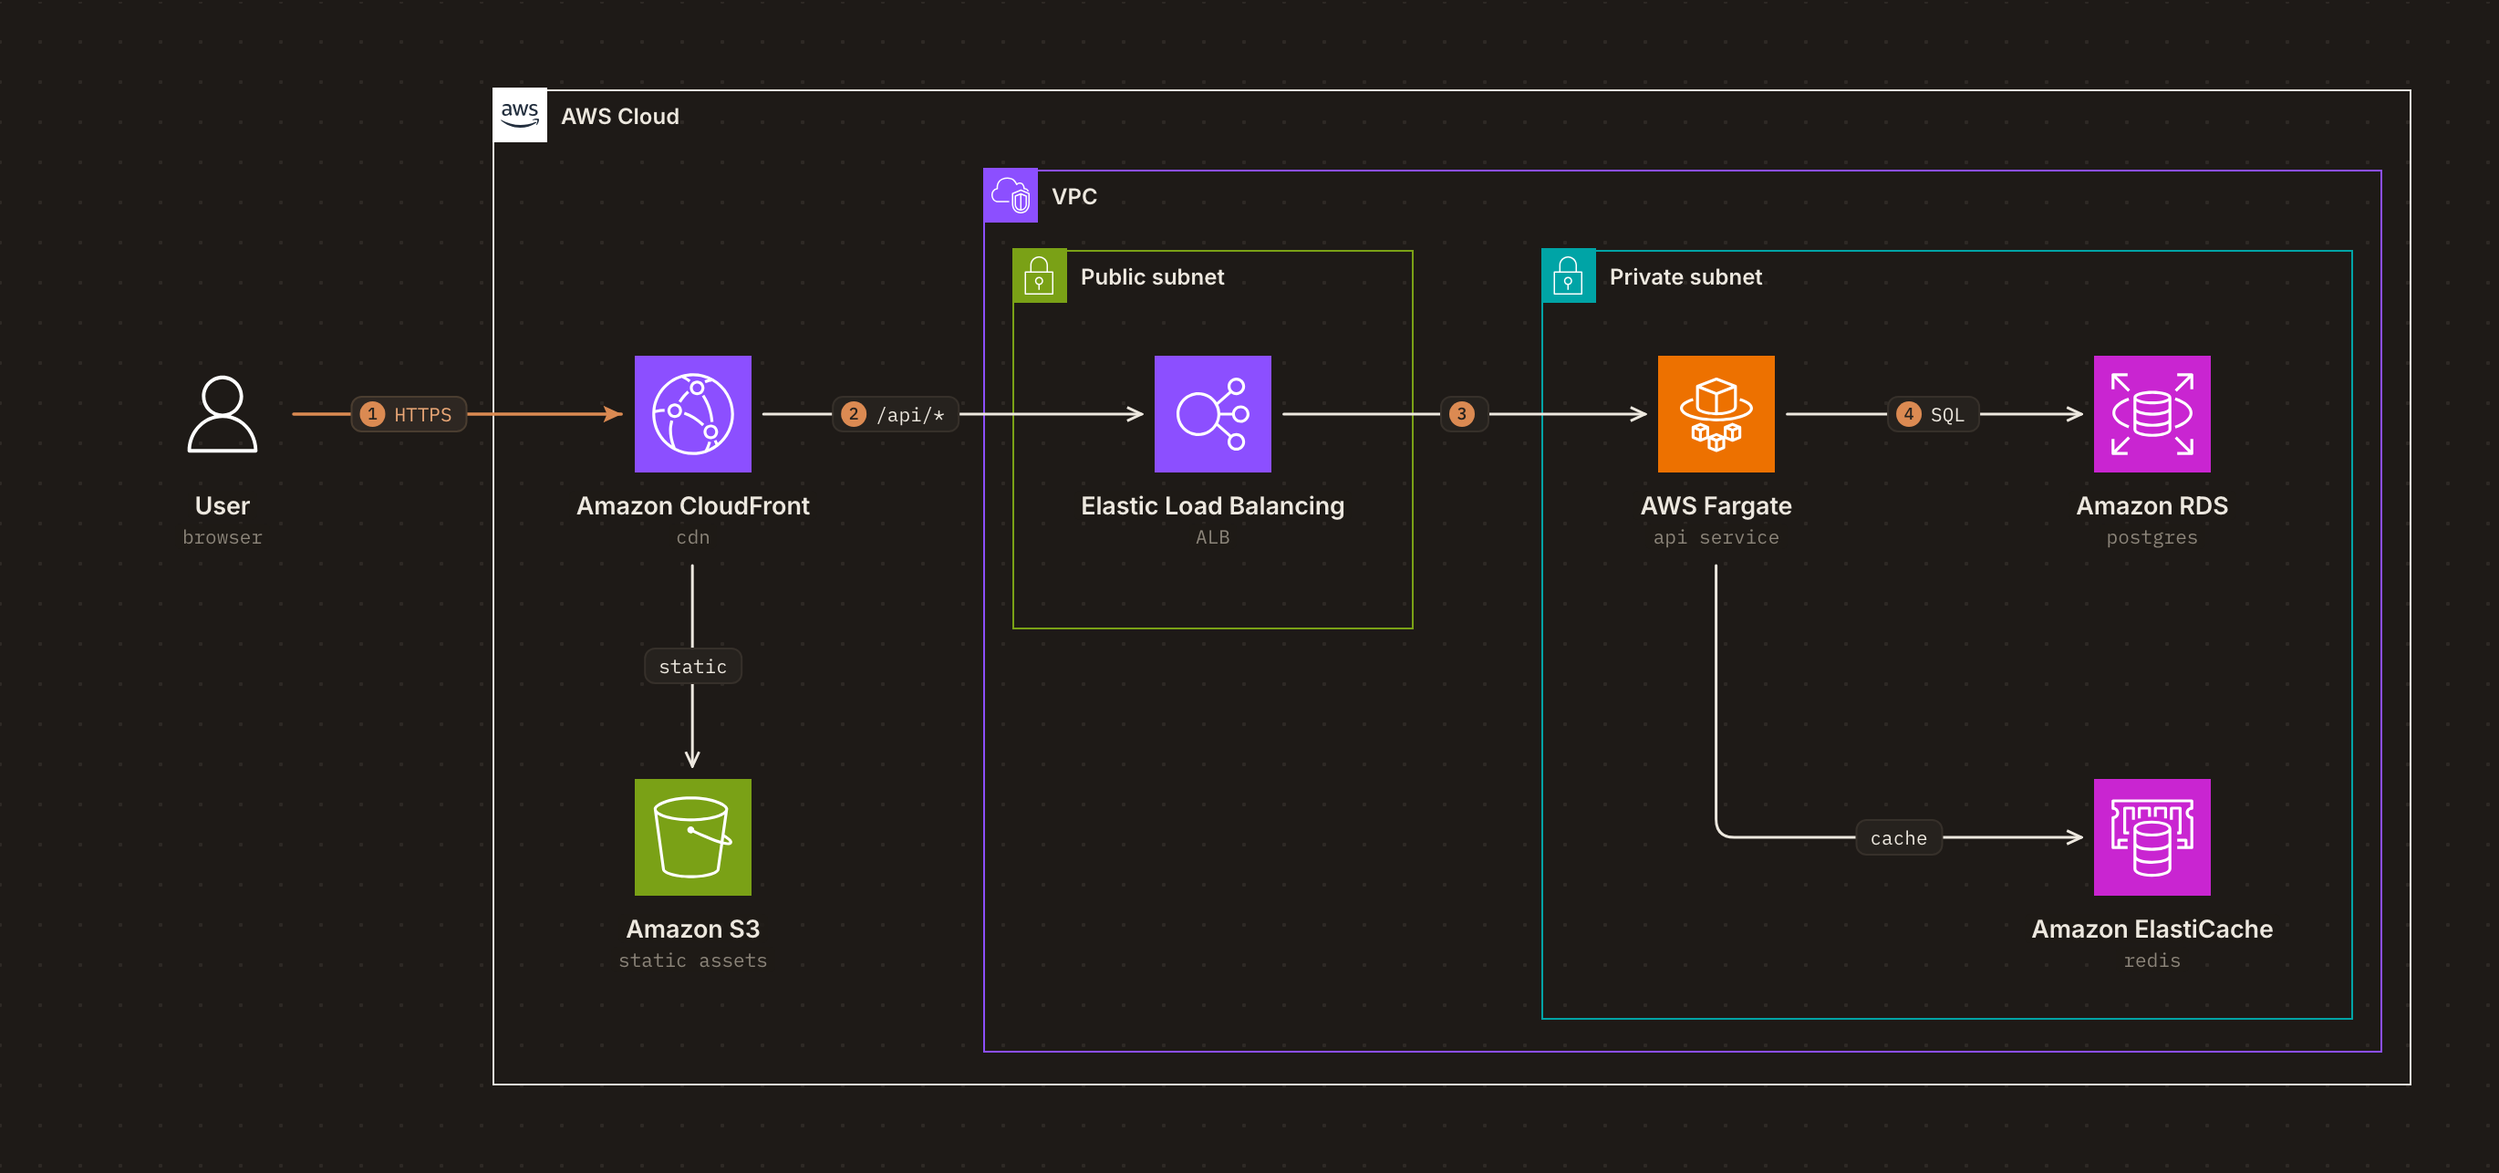
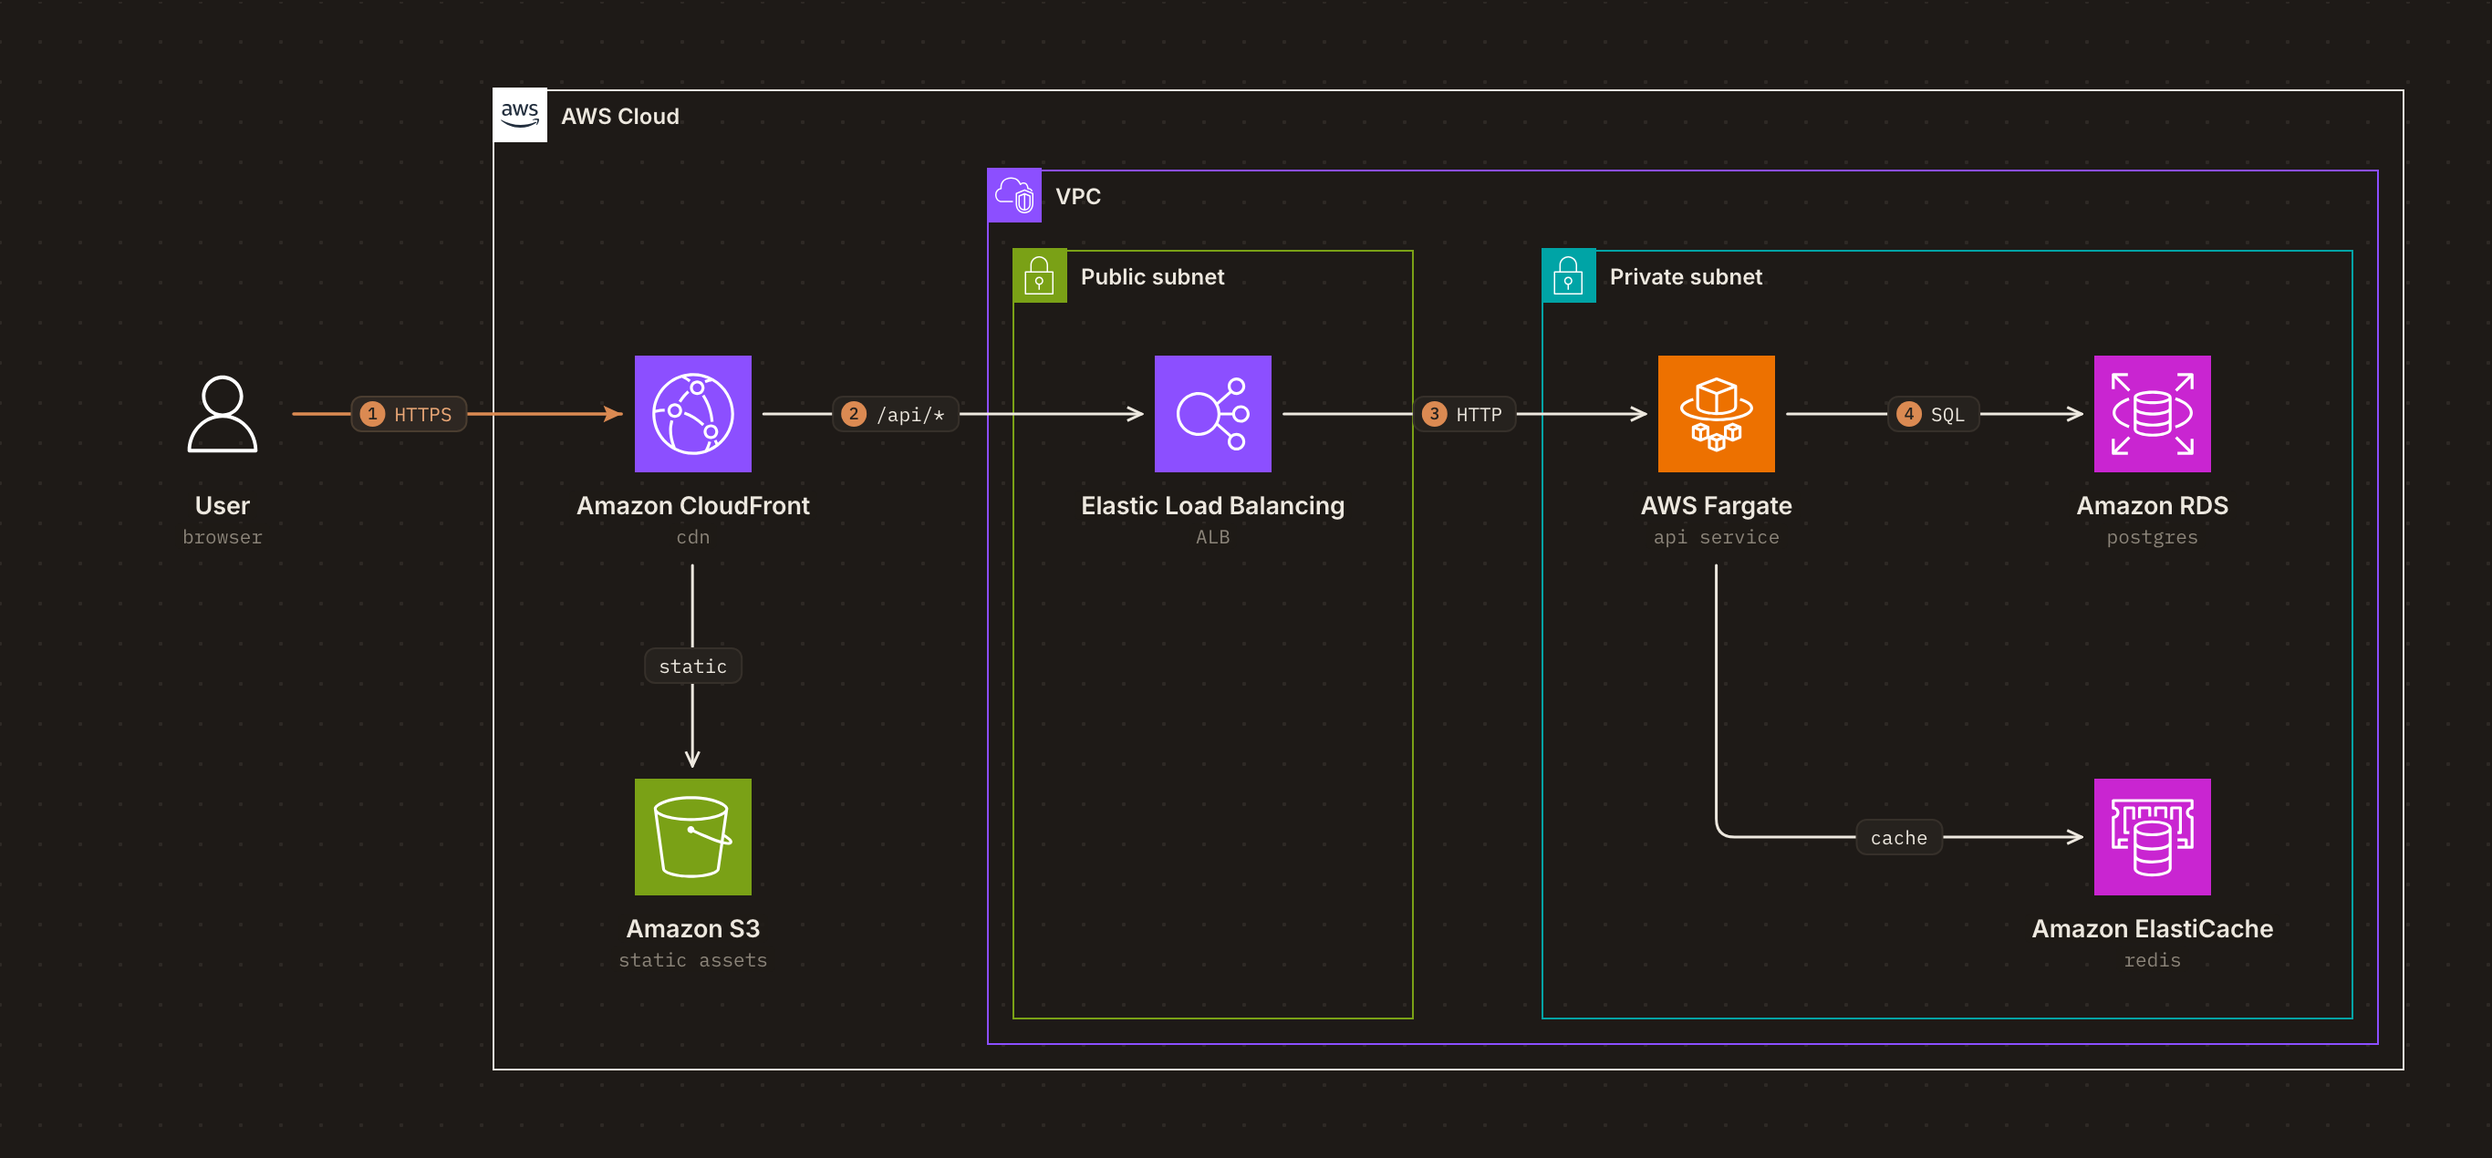
feat(blueprint): align sibling groups and add a light/dark split image
- Sibling groups side by side share top and bottom edges (a row of subnets
  is drawn at one height); nested padding tightened
- saas example on even columns, GitHub Actions under Next.js
- record_demo.py eases the cursor frame by frame and slows page animations
  to the capture speed, at 20 fps
- tools/light_dark.py cuts the light and dark renders along a diagonal;
  READMEs gain a Light and dark section and balanced feature cards

diff --git a/tools/record_demo.py b/tools/record_demo.py
@@ -4,71 +4,107 @@
 Usage:
   python3 tools/record_demo.py examples/saas/index.html docs/demo.gif
 
-Needs Playwright with Chromium and ffmpeg. A drawn cursor is injected into the page so
-the viewer can see what is being pointed at; the page itself is unchanged.
+Needs Playwright with Chromium and ffmpeg. Frames are captured one at a time, so the
+page's own CSS animations are slowed to match the capture speed and every frame stands
+for exactly 1/FPS of a second; the drawn cursor moves on an eased path, frame by frame.
 """
-import pathlib, shutil, subprocess, sys, tempfile
+import pathlib, shutil, subprocess, sys, tempfile, time
 
 from playwright.sync_api import sync_playwright
 
+FPS = 20
+WIDTH, HEIGHT, OUT_W = 1180, 980, 1000
 CURSOR = """
 const c = document.createElement('div');
-c.id = '__cursor';
 c.innerHTML = '<svg width="22" height="22" viewBox="0 0 24 24"><path d="M4 2.5 L4 19 L8.6 14.8 L11.6 21.3 L14.4 20 L11.5 13.7 L17.8 13.4 Z" fill="#2B2622" stroke="#fff" stroke-width="1.6" stroke-linejoin="round"/></svg>';
-Object.assign(c.style, {position:'fixed', left:'0', top:'0', zIndex: 99999, pointerEvents:'none',
-  transition:'transform .55s cubic-bezier(.22,1,.36,1)', transform:'translate(600px, 120px)'});
+Object.assign(c.style, {position:'fixed', left:'0', top:'0', zIndex:99999, pointerEvents:'none'});
 document.body.appendChild(c);
-window.__move = (x, y) => { c.style.transform = `translate(${x}px, ${y}px)`; };
+const st = document.createElement('style');
+st.textContent = '@keyframes __ripple { from { transform: translate(-50%,-50%) scale(.3); opacity:.55 } to { transform: translate(-50%,-50%) scale(1.6); opacity:0 } }';
+document.head.appendChild(st);
+window.__at = (x, y) => { c.style.transform = `translate(${x - 3}px, ${y - 2}px)`; };
+window.__ripple = (x, y) => {
+  const r = document.createElement('div');
+  Object.assign(r.style, {position:'fixed', left:x+'px', top:y+'px', width:'34px', height:'34px', borderRadius:'50%',
+    border:'2px solid #B25F28', zIndex:99998, pointerEvents:'none', animation:'__ripple .5s cubic-bezier(.22,1,.36,1) forwards'});
+  document.body.appendChild(r); setTimeout(() => r.remove(), 1200);
+};
 """
+
+def ease(t):  # ease-in-out cubic
+    return 4 * t ** 3 if t < .5 else 1 - (-2 * t + 2) ** 3 / 2
 
 def main():
     src, out = pathlib.Path(sys.argv[1]).resolve(), pathlib.Path(sys.argv[2])
     tmp = pathlib.Path(tempfile.mkdtemp())
-    frame = [0]
+    n = [0]
+    pos = [WIDTH * .62, 150.0]
     with sync_playwright() as p:
         b = p.chromium.launch(args=["--font-render-hinting=none"])
-        page = b.new_page(viewport={"width": 1180, "height": 1090}, device_scale_factor=1.5)
+        page = b.new_page(viewport={"width": WIDTH, "height": HEIGHT}, device_scale_factor=1.5)
         page.goto(src.as_uri())
         page.wait_for_timeout(800)
         page.evaluate(CURSOR)
+        page.evaluate(f"__at({pos[0]}, {pos[1]})")
 
-        def hold(seconds, fps=12):
-            for _ in range(int(seconds * fps)):
-                page.screenshot(path=str(tmp / f"f{frame[0]:04d}.png"))
-                frame[0] += 1
+        # measure how long one capture takes, then slow the page's animations to match
+        t0 = time.time()
+        for _ in range(5): page.screenshot()
+        per_shot = (time.time() - t0) / 5
+        cdp = page.context.new_cdp_session(page)
+        cdp.send("Animation.enable")
+        cdp.send("Animation.setPlaybackRate", {"playbackRate": min(1.0, (1 / FPS) / per_shot)})
 
-        def point(selector, settle=0.7):
+        def shot():
+            page.screenshot(path=str(tmp / f"f{n[0]:04d}.png"))
+            n[0] += 1
+
+        def hold(seconds):
+            for _ in range(round(seconds * FPS)): shot()
+
+        def glide(selector, seconds=.7):
             box = page.locator(selector).first.bounding_box()
-            x, y = box["x"] + box["width"] / 2, box["y"] + min(box["height"] / 2, 32)
-            page.evaluate(f"__move({x}, {y})")
-            page.mouse.move(x, y)
-            hold(settle)
+            tx, ty = box["x"] + box["width"] / 2, box["y"] + min(box["height"] / 2, 30)
+            sx, sy = pos
+            frames = max(2, round(seconds * FPS))
+            for i in range(1, frames + 1):
+                k = ease(i / frames)
+                x, y = sx + (tx - sx) * k, sy + (ty - sy) * k
+                page.evaluate(f"__at({x}, {y})")
+                page.mouse.move(x, y)
+                shot()
+            pos[:] = [tx, ty]
 
-        def click(selector, settle=1.2):
-            point(selector, 0.6)
-            page.locator(selector).first.click()
-            hold(settle)
+        def click(selector, after):
+            glide(selector)
+            hold(.15)
+            page.evaluate(f"__ripple({pos[0]}, {pos[1]})")
+            page.mouse.down(); page.mouse.up()
+            hold(after)
 
-        hold(1.2)
-        point("#node-hono", 1.6)                      # hover: what does Hono talk to
-        point("#node-neon", 1.2)
-        click(".seg button[data-flow=request]", 2.2)  # the request path lights up
-        point("#steps li:nth-child(3)", 1.4)          # one step at a time
-        click("#node-hono", 2.2)                      # inspector
+        hold(1.0)
+        glide("#node-user", .9); hold(.6)
+        glide("#node-hono", .8); hold(1.4)              # what does Hono talk to
+        glide("#node-stripe", .6); hold(1.0)
+        click(".seg button[data-flow=request]", 2.0)    # the request path lights up
+        glide("#steps li:nth-child(2)", .7); hold(1.0)  # one step at a time
+        glide("#steps li:nth-child(3)", .3); hold(1.0)
+        click("#node-hono", 2.2)                        # inspector
         click(".seg button[data-flow=deploy]", 1.8)
-        click("#theme", 2.0)                          # dark theme
-        click(".seg button[data-flow=all]", 1.4)
-        click("#theme", 1.0)
+        click("#theme", 1.8)                            # dark theme
+        click(".seg button[data-flow=all]", 1.2)
+        click("#theme", 1.2)
         b.close()
 
     palette = tmp / "palette.png"
-    vf = "scale=1000:-1:flags=lanczos"
-    subprocess.run(["ffmpeg", "-y", "-loglevel", "error", "-framerate", "12", "-i", str(tmp / "f%04d.png"),
+    vf = f"scale={OUT_W}:-1:flags=lanczos"
+    frames = ["-framerate", str(FPS), "-i", str(tmp / "f%04d.png")]
+    subprocess.run(["ffmpeg", "-y", "-loglevel", "error", *frames,
                     "-vf", f"{vf},palettegen=stats_mode=diff:max_colors=200", str(palette)], check=True)
-    subprocess.run(["ffmpeg", "-y", "-loglevel", "error", "-framerate", "12", "-i", str(tmp / "f%04d.png"), "-i", str(palette),
+    subprocess.run(["ffmpeg", "-y", "-loglevel", "error", *frames, "-i", str(palette),
                     "-lavfi", f"{vf}[x];[x][1:v]paletteuse=dither=sierra2_4a:diff_mode=rectangle", str(out)], check=True)
     shutil.rmtree(tmp)
-    print(f"wrote {out} ({out.stat().st_size // 1024} KB, {frame[0]} frames)")
+    print(f"wrote {out} ({out.stat().st_size // 1024} KB, {n[0]} frames at {FPS} fps, capture {per_shot * 1000:.0f} ms/frame)")
 
 if __name__ == "__main__":
     main()

diff --git a/skills/blueprint/scripts/blueprint.py b/skills/blueprint/scripts/blueprint.py
@@ -314,24 +314,39 @@ def main():
         return out
 
     rect = {}
+    def align(gids):
+        """Sibling groups side by side share top and bottom edges, the way a row of subnets is drawn."""
+        for a in gids:
+            for b in gids:
+                if a >= b: continue
+                ra, rb = rect[a], rect[b]
+                overlap = min(ra[3], rb[3]) - max(ra[1], rb[1])
+                if overlap > .5 * min(ra[3] - ra[1], rb[3] - rb[1]) and not hits(ra, rb):
+                    top, bottom = min(ra[1], rb[1]), max(ra[3], rb[3])
+                    rect[a] = (ra[0], top, ra[2], bottom); rect[b] = (rb[0], top, rb[2], bottom)
+
     def grect(gid):
         if gid in rect: return rect[gid]
         g = groups[gid]
         st = style_of(g, gid in parent)
         px, pt, pb, band = pads(st)
+        kids = [m for m in g.get("contains", []) if m in groups]
+        for m in kids: grect(m)
+        align(kids)
         exts = []
         for m in g.get("contains", []):
             if m in by:
                 n = by[m]; b = n.box()
                 exts.append((b[0] - px, n.top - pt, b[2] + px, b[3] + pb))
             else:
-                c = grect(m)
-                exts.append((c[0] - 16, c[1] - band, c[2] + 16, c[3] + 18))
+                c = rect[m]
+                exts.append((c[0] - 14, c[1] - band, c[2] + 14, c[3] + 14))
         if not exts:
             sys.exit(f"group {gid} is empty")
         rect[gid] = (min(e[0] for e in exts), min(e[1] for e in exts), max(e[2] for e in exts), max(e[3] for e in exts))
         return rect[gid]
     for gid in groups: grect(gid)
+    align([g for g in groups if g not in parent])
 
     # translate so the drawing starts at MARGIN
     xs0 = [n.box()[0] for n in nodes] + [r[0] for r in rect.values()]

diff --git a/tools/light_dark.py b/tools/light_dark.py
@@ -1,0 +1,24 @@
+#!/usr/bin/env python3
+"""Cut a light and a dark render of the same diagram along a diagonal, into one image.
+
+Usage:
+  python3 tools/light_dark.py docs/ai.png docs/ai-dark.png docs/light-dark.png
+
+Light keeps the upper left, dark the lower right. Both inputs come from render_png.py,
+so they are the same size.
+"""
+import sys
+from PIL import Image, ImageDraw
+
+def main():
+    light, dark = Image.open(sys.argv[1]).convert("RGB"), Image.open(sys.argv[2]).convert("RGB")
+    w, h = light.size
+    top, bottom = w * .62, w * .38          # where the cut meets the top and bottom edges
+    mask = Image.new("L", (w * 4, h * 4), 0)  # drawn large, scaled down, for a clean edge
+    ImageDraw.Draw(mask).polygon([(top * 4, 0), (w * 4, 0), (w * 4, h * 4), (bottom * 4, h * 4)], fill=255)
+    out = Image.composite(dark, light, mask.resize((w, h), Image.LANCZOS))
+    out.save(sys.argv[3], optimize=True)
+    print(f"wrote {sys.argv[3]} ({w}x{h})")
+
+if __name__ == "__main__":
+    main()

diff --git a/README.ja.md b/README.ja.md
@@ -37,21 +37,21 @@ Claude Code、Codex、Cursor など、[skills に対応したエージェント]
   <tr>
     <td width="50%" valign="top">
       <h3>たどるべき経路は一本</h3>
-      リクエスト経路はアンバーで番号付き。図の下には平易な言葉のステップ一覧が並び、ほかの要素は一歩下がります。
+      リクエスト経路はアンバーで番号付き。図の下に平易なステップ一覧が並び、ほかの要素は一歩下がります。
     </td>
     <td width="50%" valign="top">
       <h3>フローを切り替えられる</h3>
-      リクエスト経路、夜間同期、デプロイ。フローごとにタブがあり、選ぶとその線だけが光ってほかは薄くなります。
+      リクエスト経路、夜間同期、デプロイ。フローごとのタブを選ぶと、その線だけが光りほかは薄くなります。
     </td>
   </tr>
   <tr>
     <td width="50%" valign="top">
       <h3>すべての部品にインスペクタ</h3>
-      カーソルを合わせると接続先がわかり、クリックすると役割、採用の理由、リポジトリやダッシュボードへのリンクが表示されます。
+      カーソルを合わせると接続先が、クリックすると役割、採用の理由、リポジトリへのリンクが表示されます。
     </td>
     <td width="50%" valign="top">
       <h3>コメントされる前提で設計</h3>
-      名前、役割、線のラベルはすべて実テキストで、固定の id を持ちます。フィードバックは対象のコンポーネントに留まり、版を重ねても外れません。
+      名前、役割、ラベルは固定 id を持つ実テキスト。コメントは対象の部品に留まり、版を重ねても外れません。
     </td>
   </tr>
 </table>
@@ -113,6 +113,12 @@ Claude Code、Codex、Cursor など、[skills に対応したエージェント]
     </td>
   </tr>
 </table>
+
+## ライトとダーク
+
+どの図もライトとダークの両方のテーマを持ち、読み手のシステム設定に合わせて切り替わります。タイルは明るいままなので各ロゴは本来の色を保ち、グループ見出しのロゴはブランドのダーク版に切り替わります。
+
+<img src="docs/light-dark.png" alt="ドキュメント Q&A ボットの図を対角線で分割：左上がライトテーマ、右下がダークテーマ" width="100%">
 
 ## 公式ロゴだけ、描き直さない
 

diff --git a/README.md b/README.md
@@ -41,17 +41,17 @@ Works with Claude Code, Codex, Cursor and [any agent that supports skills](https
     </td>
     <td width="50%" valign="top">
       <h3>Flows you can switch</h3>
-      Request path, nightly sync, deploy. Each flow is a tab that lights up its own edges and dims the rest.
+      Request path, nightly sync, deploy. Each flow gets its own tab that lights up its edges and quietly dims the rest.
     </td>
   </tr>
   <tr>
     <td width="50%" valign="top">
       <h3>An inspector for every part</h3>
-      Hover a component to see what it talks to. Click it for its role, why it's there, and a link to its repo or dashboard.
+      Hover a component to see what it talks to. Click it for its role, why it's there, and a link to its repo.
     </td>
     <td width="50%" valign="top">
       <h3>Built to be commented on</h3>
-      Every name, role and edge label is real text with a stable id, so feedback pins to the component it's about and stays there across versions.
+      Names, roles and labels are real text with stable ids, so feedback pins to its component and stays across versions.
     </td>
   </tr>
 </table>
@@ -113,6 +113,12 @@ Need a static image? Every diagram also renders to light and dark PNGs for Slack
     </td>
   </tr>
 </table>
+
+## Light and dark
+
+Every diagram ships with both themes and follows the reader's system setting. Tiles stay light so each logo keeps its own colors, and group marks switch to the brand's dark-theme version.
+
+<img src="docs/light-dark.png" alt="The docs chatbot diagram cut diagonally: light theme on the upper left, dark theme on the lower right" width="100%">
 
 ## Official logos, never redrawn
 

diff --git a/README.zh-TW.md b/README.zh-TW.md
@@ -41,17 +41,17 @@ npx skills add smilewilson1999/blueprint
     </td>
     <td width="50%" valign="top">
       <h3>可以切換的流程</h3>
-      請求路徑、夜間同步、部署，每個流程都是一個分頁。切過去就亮出那條流程的線，其餘的變淡。
+      請求路徑、夜間同步、部署各是一個分頁，切過去就亮出那條流程，其餘的線變淡。
     </td>
   </tr>
   <tr>
     <td width="50%" valign="top">
       <h3>每個元件都能點開看</h3>
-      滑過元件就看得到它跟誰相連。點下去會顯示它的角色、為什麼用它，以及 repo 或 dashboard 的連結。
+      滑過元件就看得到它跟誰相連，點下去會顯示它的角色、選用理由和 repo 連結。
     </td>
     <td width="50%" valign="top">
       <h3>生來就是給人留言的</h3>
-      每個名稱、角色和連線標籤都是真正的文字，也都有固定的 id。留言會釘在對應的元件上，改版之後也不會跑掉。
+      名稱、角色和標籤都是真正的文字並有固定 id，留言會釘在元件上，改版也不跑掉。
     </td>
   </tr>
 </table>
@@ -113,6 +113,12 @@ npx skills add smilewilson1999/blueprint
     </td>
   </tr>
 </table>
+
+## 亮色與暗色
+
+每張圖都同時有亮色和暗色兩種主題，會跟著讀者的系統設定切換。元件底色維持淺色，讓每個 logo 保留原本的顏色；群組標題的 logo 則會換成品牌的暗色版本。
+
+<img src="docs/light-dark.png" alt="文件問答機器人的架構圖沿對角線切開：左上是亮色主題，右下是暗色主題" width="100%">
 
 ## 只用官方 logo，絕不重畫
 
